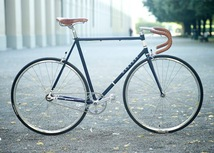
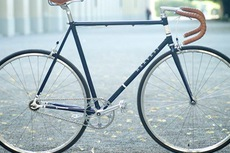
fix profile listing processing of images

diff --git a/app/models/item.rb b/app/models/item.rb
@@ -2,8 +2,9 @@ class Item < ActiveRecord::Base
   belongs_to :owner, class_name: :User, foreign_key: :owner_id
   has_many :category_joins, class_name: :CategoryJoin, foreign_key: :item_id
   has_many :categories, through: :category_joins, source: :category
-  has_attached_file :image, styles: { profile_listing: "230x153", show: "570x", thumb: "" }, convert_options: { 
-    thumb: "-resize 280x1500 -gravity Center -shave 58x0" },
+  has_attached_file :image, styles: { profile_listing: "", show: "570x", thumb: "" }, convert_options: { 
+    thumb: "-resize 280x800 -gravity Center -shave 58x0",
+    profile_listing: "-resize 300x800 -gravity Center -crop 230x153+0+0 +repage" },
     default_style: :thumb
   validates_attachment_content_type :image, :content_type => ["image/jpg", "image/jpeg", "image/png", "image/gif"]
 end
